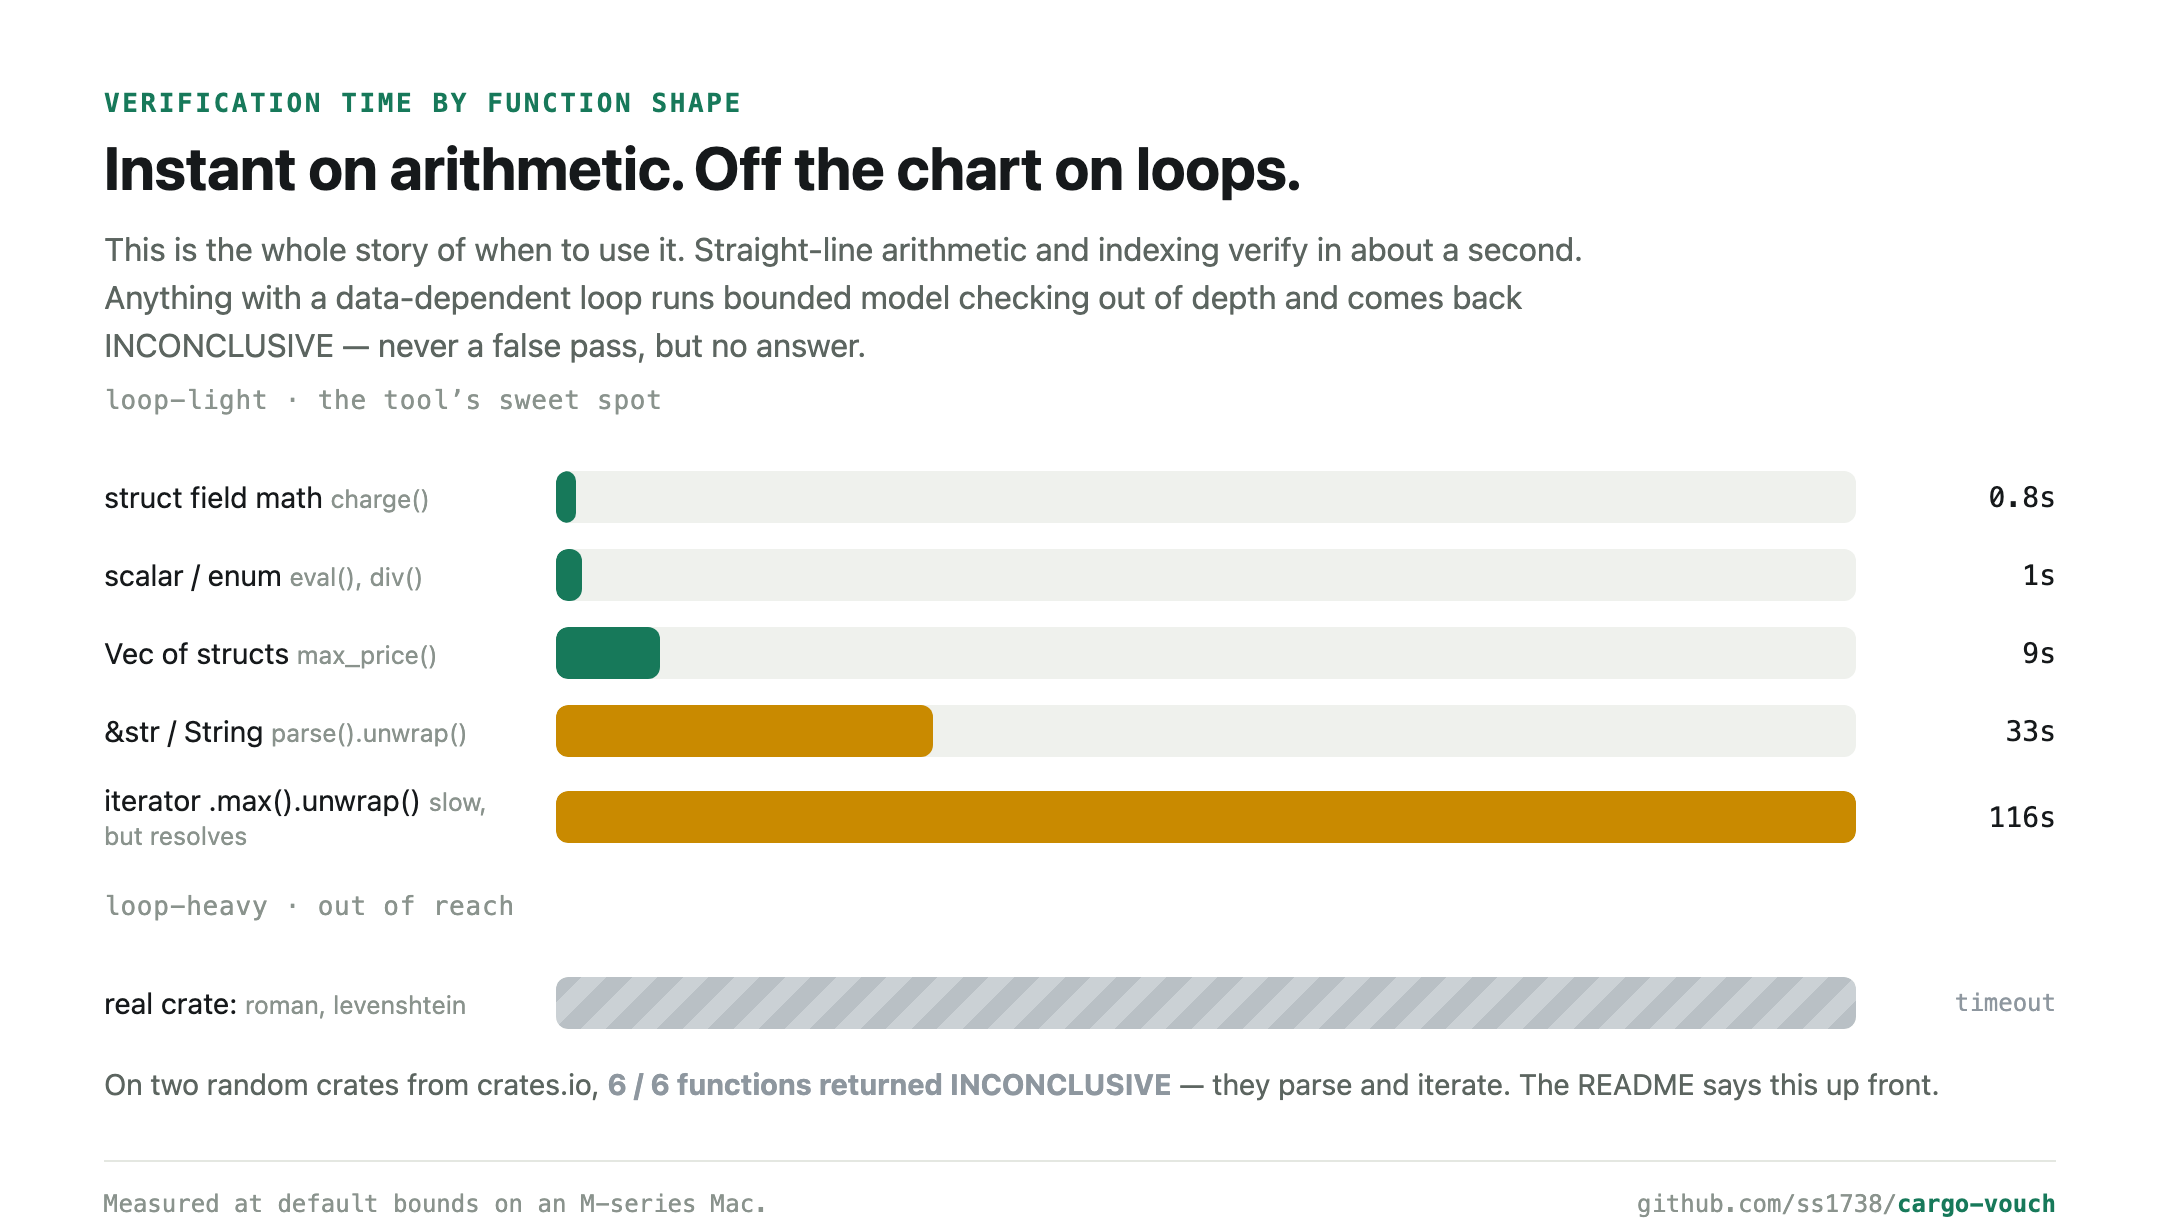
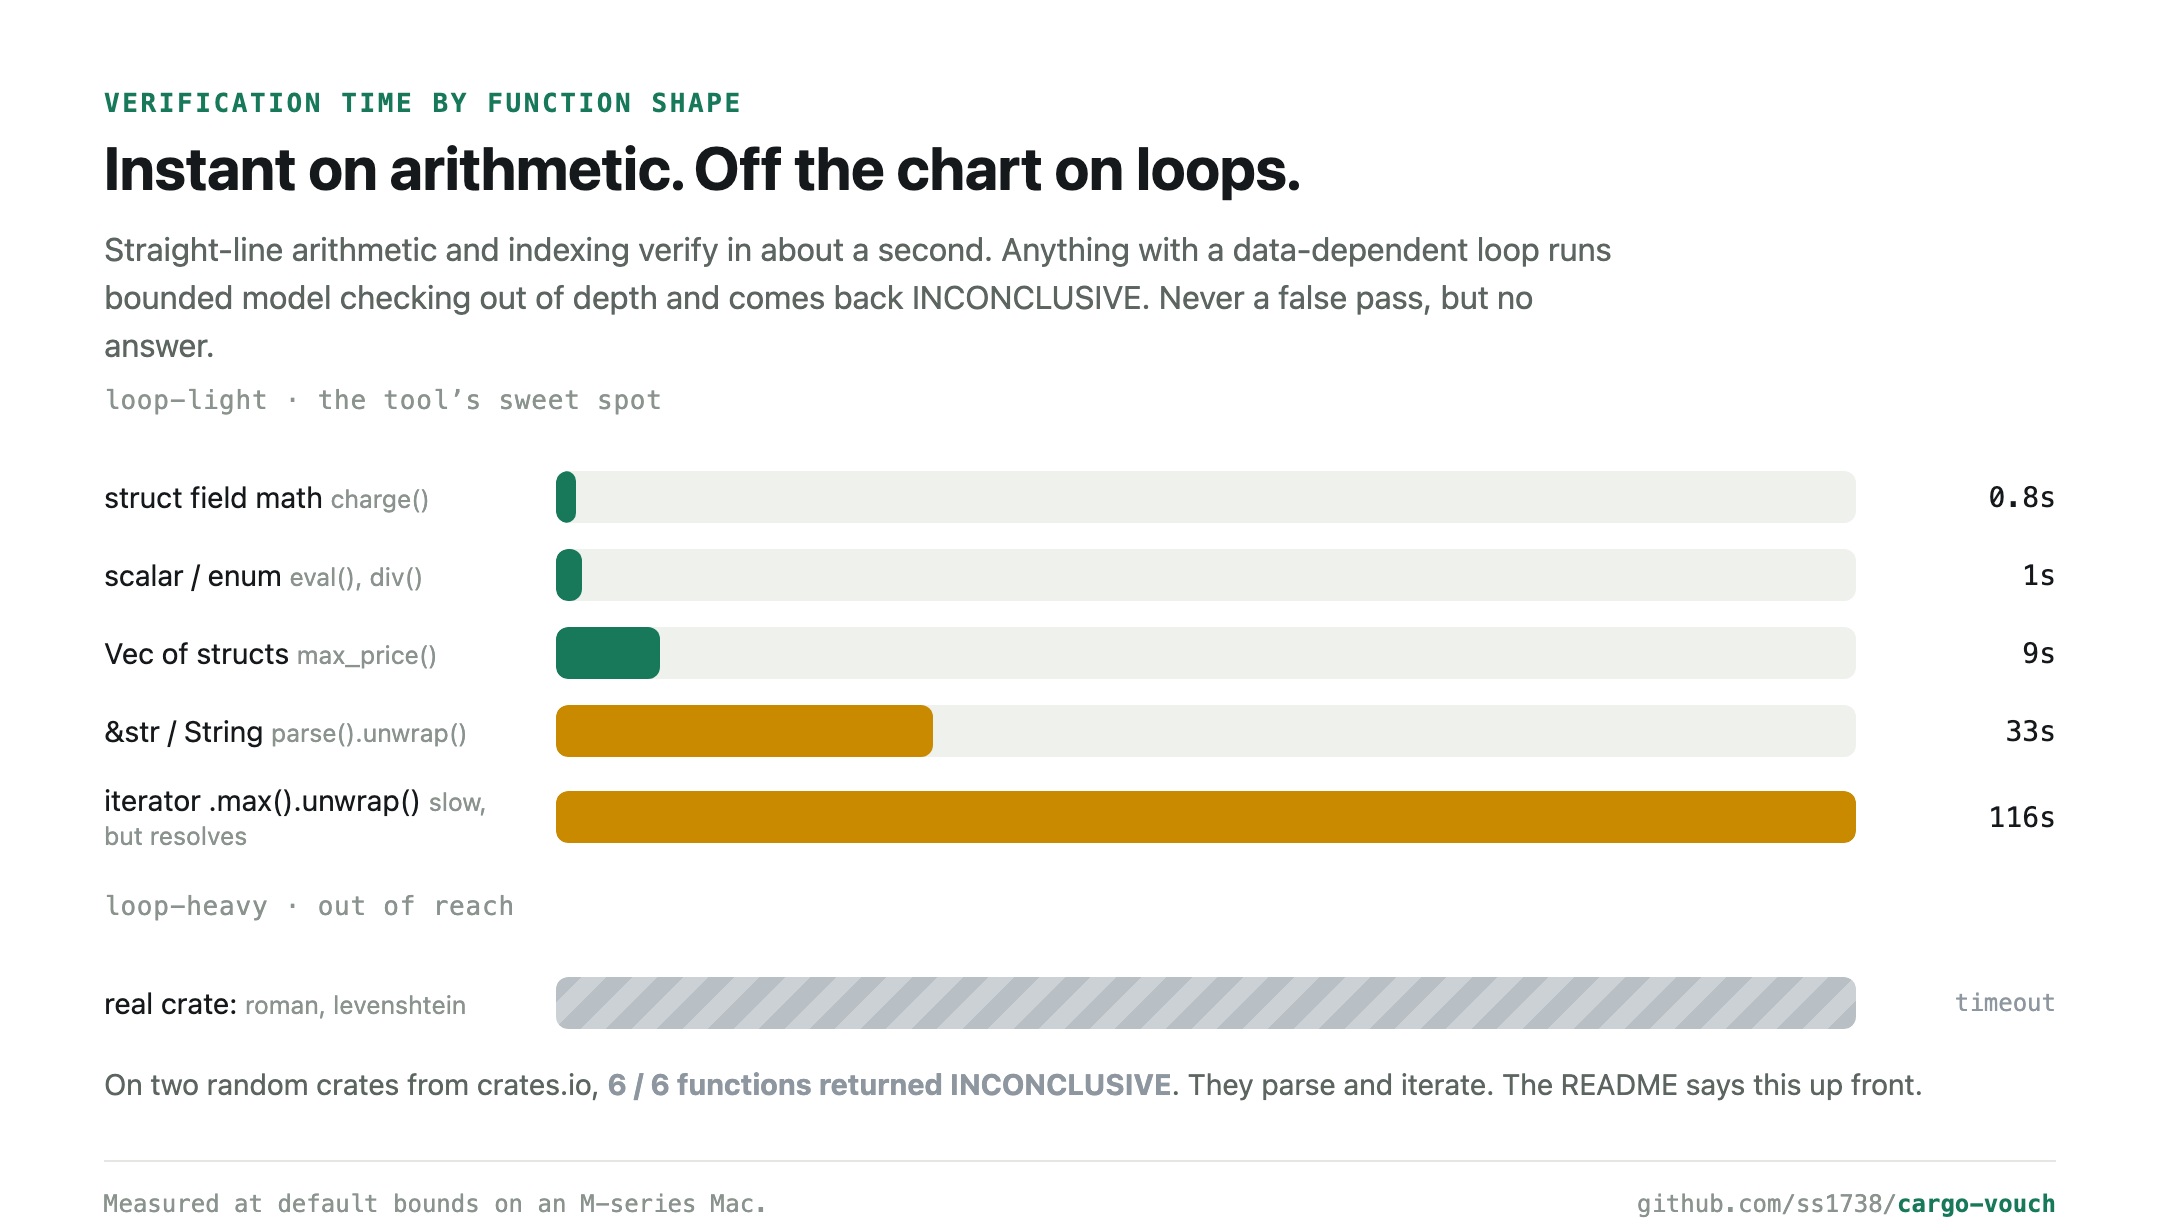
Remove em-dashes and tighten copy across all social visuals
Cards, LinkedIn carousel, and GitHub charts now use plain punctuation
(colons, periods) in place of em/en dashes. Re-rendered the three README
chart PNGs to match. Confusion-matrix, verdict, and speed charts read
cleanly with no AI-tone tells.

Changed region(s): [[0.031, 0.1869, 0.7444, 0.3115], [0.5583, 0.8721, 0.8995, 0.9033]]

diff --git a/social/github-charts.html b/social/github-charts.html
@@ -3,7 +3,7 @@
 <head>
 <meta charset="utf-8">
 <meta name="viewport" content="width=device-width, initial-scale=1">
-<title>cargo-vouch — charts</title>
+<title>cargo-vouch charts</title>
 <style>
   :root{
     --ground:#F6F7F5; --surface:#FFFFFF; --ink:#16191B; --muted:#5C6560;
@@ -89,7 +89,7 @@
 </head>
 <body>
 
-  <div class="note"><strong>GitHub charts</strong> — screenshot each figure (they're 1080px wide, README-friendly) or embed the PNGs. Every number is measured in the repo (RESULTS.md / REAL_WORLD_VALIDATION.md), not invented.</div>
+  <div class="note"><strong>GitHub charts</strong>. Screenshot each figure (they're 1080px wide, README-friendly) or embed the PNGs. Every number is measured in the repo (RESULTS.md / REAL_WORLD_VALIDATION.md), not invented.</div>
 
   <!-- ================= FIG 1 : confusion matrix ================= -->
   <div class="wrap" id="f1">
@@ -105,12 +105,12 @@
         <div class="colh">Proof: bug<small>panic / overflow reachable</small></div>
 
         <div class="rowh">GPT said<br>“correct”</div>
-        <div class="cell agree"><div class="tag">agree</div><div class="n tnum">2</div><div class="lab">right calls — <code style="font-family:var(--mono)">get_third</code>, <code style="font-family:var(--mono)">remove_last</code></div></div>
-        <div class="cell wrong"><div class="tag">missed a bug</div><div class="n tnum">3</div><div class="lab">called broken code correct — overflows in <code style="font-family:var(--mono)">sum_vec</code>, <code style="font-family:var(--mono)">increment_all</code>, <code style="font-family:var(--mono)">square_sum</code></div></div>
+        <div class="cell agree"><div class="tag">agree</div><div class="n tnum">2</div><div class="lab">right calls: <code style="font-family:var(--mono)">get_third</code>, <code style="font-family:var(--mono)">remove_last</code></div></div>
+        <div class="cell wrong"><div class="tag">missed a bug</div><div class="n tnum">3</div><div class="lab">called broken code correct. Overflows in <code style="font-family:var(--mono)">sum_vec</code>, <code style="font-family:var(--mono)">increment_all</code>, <code style="font-family:var(--mono)">square_sum</code></div></div>
 
         <div class="rowh">GPT said<br>“buggy”</div>
-        <div class="cell wrong"><div class="tag">false alarm</div><div class="n tnum">1</div><div class="lab">flagged safe code — <code style="font-family:var(--mono)">prepend_zero</code> is fine</div></div>
-        <div class="cell agree"><div class="tag">agree</div><div class="n tnum">5</div><div class="lab">real bugs it did catch — empty-vec unwraps, divide-by-zero</div></div>
+        <div class="cell wrong"><div class="tag">false alarm</div><div class="n tnum">1</div><div class="lab">flagged safe code: <code style="font-family:var(--mono)">prepend_zero</code> is fine</div></div>
+        <div class="cell agree"><div class="tag">agree</div><div class="n tnum">5</div><div class="lab">real bugs it did catch: empty-vec unwraps, divide-by-zero</div></div>
       </div>
 
       <div class="scoreline">
@@ -129,7 +129,7 @@
     <div class="fig">
       <p class="kicker">14 functions of ordinary utility code</p>
       <h2 class="title">Five reachable panics <span style="color:var(--faint);font-weight:600">·</span> `cargo test` would have shipped every one</h2>
-      <p class="lede">Not AI code this time — plain stats, pagination and geometry helpers. Overflow-only cases are marked UNGUARDED (add a guard), not BUG, so it isn’t crying wolf.</p>
+      <p class="lede">Not AI code this time: plain stats, pagination and geometry helpers. Overflow-only cases are marked UNGUARDED (add a guard), not BUG, so it doesn’t over-report.</p>
 
       <div class="distbar">
         <div class="seg bug" style="flex:5"><span class="n tnum">5</span><span class="l">🔴 BUG</span></div>
@@ -137,14 +137,14 @@
         <div class="seg ver" style="flex:1"><span class="n tnum">1</span><span class="l">✅ VERIFIED</span></div>
       </div>
       <div class="legend">
-        <span class="k"><span class="sw" style="background:var(--bug)"></span>BUG — reachable on ordinary input, with a witness</span>
-        <span class="k"><span class="sw" style="background:var(--ung)"></span>UNGUARDED — overflows only at i32::MAX/MIN</span>
-        <span class="k"><span class="sw" style="background:var(--ver)"></span>VERIFIED — provably panic-free</span>
+        <span class="k"><span class="sw" style="background:var(--bug)"></span>BUG: reachable on ordinary input, with a witness</span>
+        <span class="k"><span class="sw" style="background:var(--ung)"></span>UNGUARDED: overflows only at i32::MAX/MIN</span>
+        <span class="k"><span class="sw" style="background:var(--ver)"></span>VERIFIED: provably panic-free</span>
       </div>
       <p class="buglist">The five bugs, each caught with the exact triggering input:
         <code>page_count</code> ÷0 · <code>mean</code> ÷0 on empty · <code>maximum</code>/<code>minimum</code>/<code>spread</code> <code>.unwrap()</code> on empty slice.</p>
 
-      <div class="src"><span>Every verdict measured under Kani — none inferred.</span><span>github.com/ss1738/<b>cargo-vouch</b></span></div>
+      <div class="src"><span>Every verdict measured under Kani, none inferred.</span><span>github.com/ss1738/<b>cargo-vouch</b></span></div>
     </div>
   </div>
 
@@ -154,7 +154,7 @@
     <div class="fig">
       <p class="kicker">Verification time by function shape</p>
       <h2 class="title">Instant on arithmetic. Off the chart on loops.</h2>
-      <p class="lede">This is the whole story of when to use it. Straight-line arithmetic and indexing verify in about a second. Anything with a data-dependent loop runs bounded model checking out of depth and comes back INCONCLUSIVE — never a false pass, but no answer.</p>
+      <p class="lede">Straight-line arithmetic and indexing verify in about a second. Anything with a data-dependent loop runs bounded model checking out of depth and comes back INCONCLUSIVE. Never a false pass, but no answer.</p>
 
       <div class="zone">loop-light · the tool’s sweet spot</div>
       <div class="bars">
@@ -169,7 +169,7 @@
       <div class="bars">
         <div class="row"><div class="rl">real crate: <small>roman, levenshtein</small></div><div class="track"><div class="fill inc" style="width:100%"></div></div><div class="rv inc" style="font-size:12px">timeout</div></div>
       </div>
-      <p class="buglist" style="margin-top:16px">On two random crates from crates.io, <b style="color:var(--inc)">6 / 6 functions returned INCONCLUSIVE</b> — they parse and iterate. The README says this up front.</p>
+      <p class="buglist" style="margin-top:16px">On two random crates from crates.io, <b style="color:var(--inc)">6 / 6 functions returned INCONCLUSIVE</b>. They parse and iterate. The README says this up front.</p>
 
       <div class="src"><span>Measured at default bounds on an M-series Mac.</span><span>github.com/ss1738/<b>cargo-vouch</b></span></div>
     </div>

diff --git a/social/linkedin-carousel.html b/social/linkedin-carousel.html
@@ -3,7 +3,7 @@
 <head>
 <meta charset="utf-8">
 <meta name="viewport" content="width=device-width, initial-scale=1">
-<title>cargo-vouch — LinkedIn carousel</title>
+<title>cargo-vouch LinkedIn carousel</title>
 <style>
   :root{
     --ink:#16191B; --muted:#5C6560; --faint:#8A938D; --line:#E4E7E1;
@@ -66,7 +66,7 @@
 </head>
 <body>
 
-  <div class="note"><strong>LinkedIn carousel</strong> — 5 square slides (1080×1080). Screenshot each and upload as a document/carousel post, in order. Green slides open and close; white slides carry the story. All numbers measured in the repo.</div>
+  <div class="note"><strong>LinkedIn carousel.</strong> 5 square slides (1080×1080). Screenshot each and upload as a document/carousel post, in order. Green slides open and close; white slides carry the story. All numbers measured in the repo.</div>
 
   <!-- ===== 1 — HOOK (green) ===== -->
   <div><div class="cap">slide 1 / 5 · hook</div>
@@ -97,9 +97,9 @@
     <div class="idx">03 / 05</div>
     <div class="eyebrow">The fix</div>
     <div class="spacer"></div>
-    <p class="h1" style="max-width:900px">Don’t test it. Prove it — for every input.</p>
+    <p class="h1" style="max-width:900px">Don’t test it. Prove it for every input.</p>
     <div class="code mt40"><span class="p">$ cargo vouch find_max.rs</span>
-<span class="r">🔴 BUG</span>  find_max — <span class="m">Option::unwrap() on None</span>
+<span class="r">🔴 BUG</span>  find_max: <span class="m">Option::unwrap() on None</span>
        <span class="m">reachable with input: []  (empty vector)</span></div>
     <p class="lead mt40" style="max-width:840px">It checks every input in bounds and hands back the exact value that breaks the function.</p>
     <div class="spacer"></div>
@@ -113,7 +113,7 @@
     <div class="eyebrow">What it can’t do</div>
     <div class="spacer"></div>
     <p class="h1" style="max-width:900px">It’s narrow, and I say so in the README.</p>
-    <p class="lead mt40" style="max-width:860px">It proves <b style="color:var(--ink)">loop-light</b> functions — arithmetic, indexing, unwraps. On two random crates from crates.io it proved nothing: <b style="color:var(--ink)">6 of 6 functions came back inconclusive</b>, because they parse and iterate. It never fakes a pass.</p>
+    <p class="lead mt40" style="max-width:860px">It proves <b style="color:var(--ink)">loop-light</b> functions: arithmetic, indexing, unwraps. On two random crates from crates.io it proved nothing. <b style="color:var(--ink)">6 of 6 functions came back inconclusive</b>, because they parse and iterate. It never fakes a pass.</p>
     <div class="pillrow"><span class="pill b">🔴 BUG</span><span class="pill u">🟡 UNGUARDED</span><span class="pill v">✅ VERIFIED</span></div>
     <div class="spacer"></div>
     <div class="foot"><span class="wm">cargo-<b>vouch</b></span><span class="swipe">swipe →</span></div>

diff --git a/social/cards.html b/social/cards.html
@@ -3,7 +3,7 @@
 <head>
 <meta charset="utf-8">
 <meta name="viewport" content="width=device-width, initial-scale=1">
-<title>cargo-vouch — social cards</title>
+<title>cargo-vouch social cards</title>
 <style>
   :root{
     --ground:#F4F5F3; --panel:#FBFCFA; --ink:#15191B; --muted:#5B6560;
@@ -164,7 +164,7 @@
           <span class="seal">✓</span>
           <span class="wordmark">cargo&#8209;<b>vouch</b></span>
         </div>
-        <div class="tagline">It proves your Rust can’t panic. Not tests — proofs.</div>
+        <div class="tagline">It proves your Rust can’t panic. Not tests. Proofs.</div>
         <div class="sub">Point it at a function. It checks every input in bounds and
           reports BUG, UNGUARDED, or VERIFIED, with the value that triggers the bug.</div>
         <div class="term">
@@ -172,7 +172,7 @@
           <div class="body">
             <span class="prompt">$ cargo vouch find_max.rs</span>
             <div class="two">
-              <span class="ln"><span class="r">🔴 BUG</span>&nbsp;&nbsp;find_max — <span class="m">called `Option::unwrap()` on a `None` value</span></span>
+              <span class="ln"><span class="r">🔴 BUG</span>&nbsp;&nbsp;find_max&nbsp;&nbsp;<span class="m">called `Option::unwrap()` on a `None` value</span></span>
               <span class="ln m">&nbsp;&nbsp;&nbsp;&nbsp;&nbsp;&nbsp;reachable with input: 0  (usize → empty vector)</span>
             </div>
           </div>
